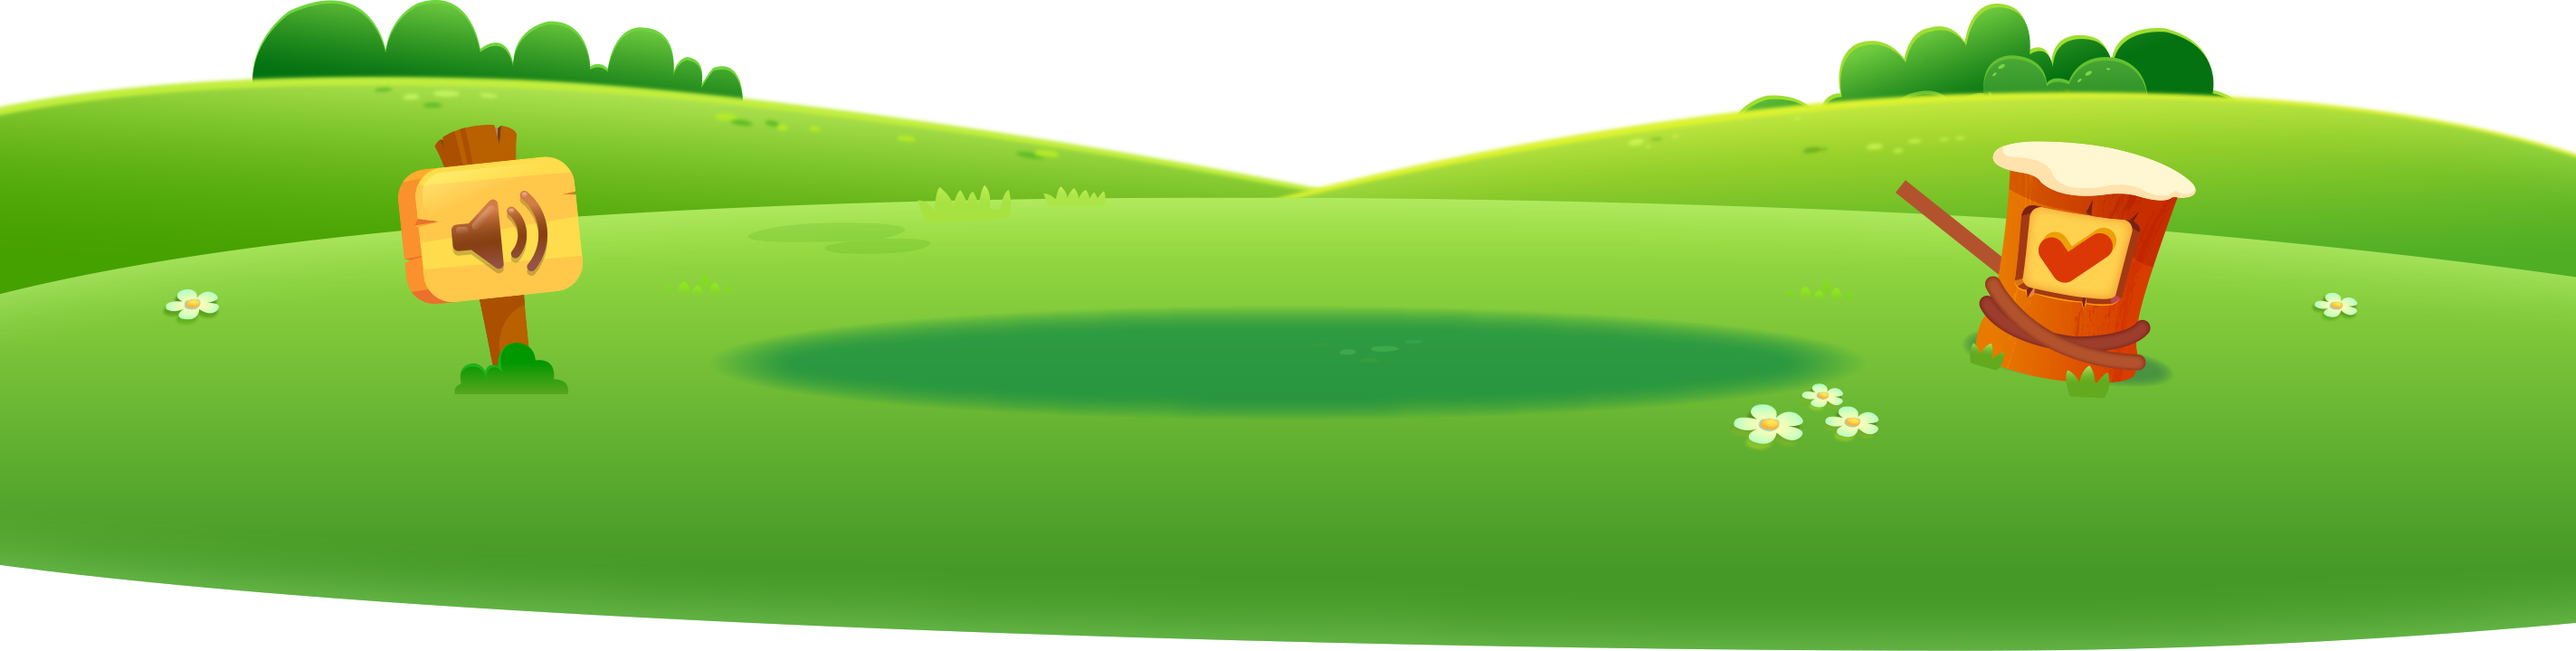
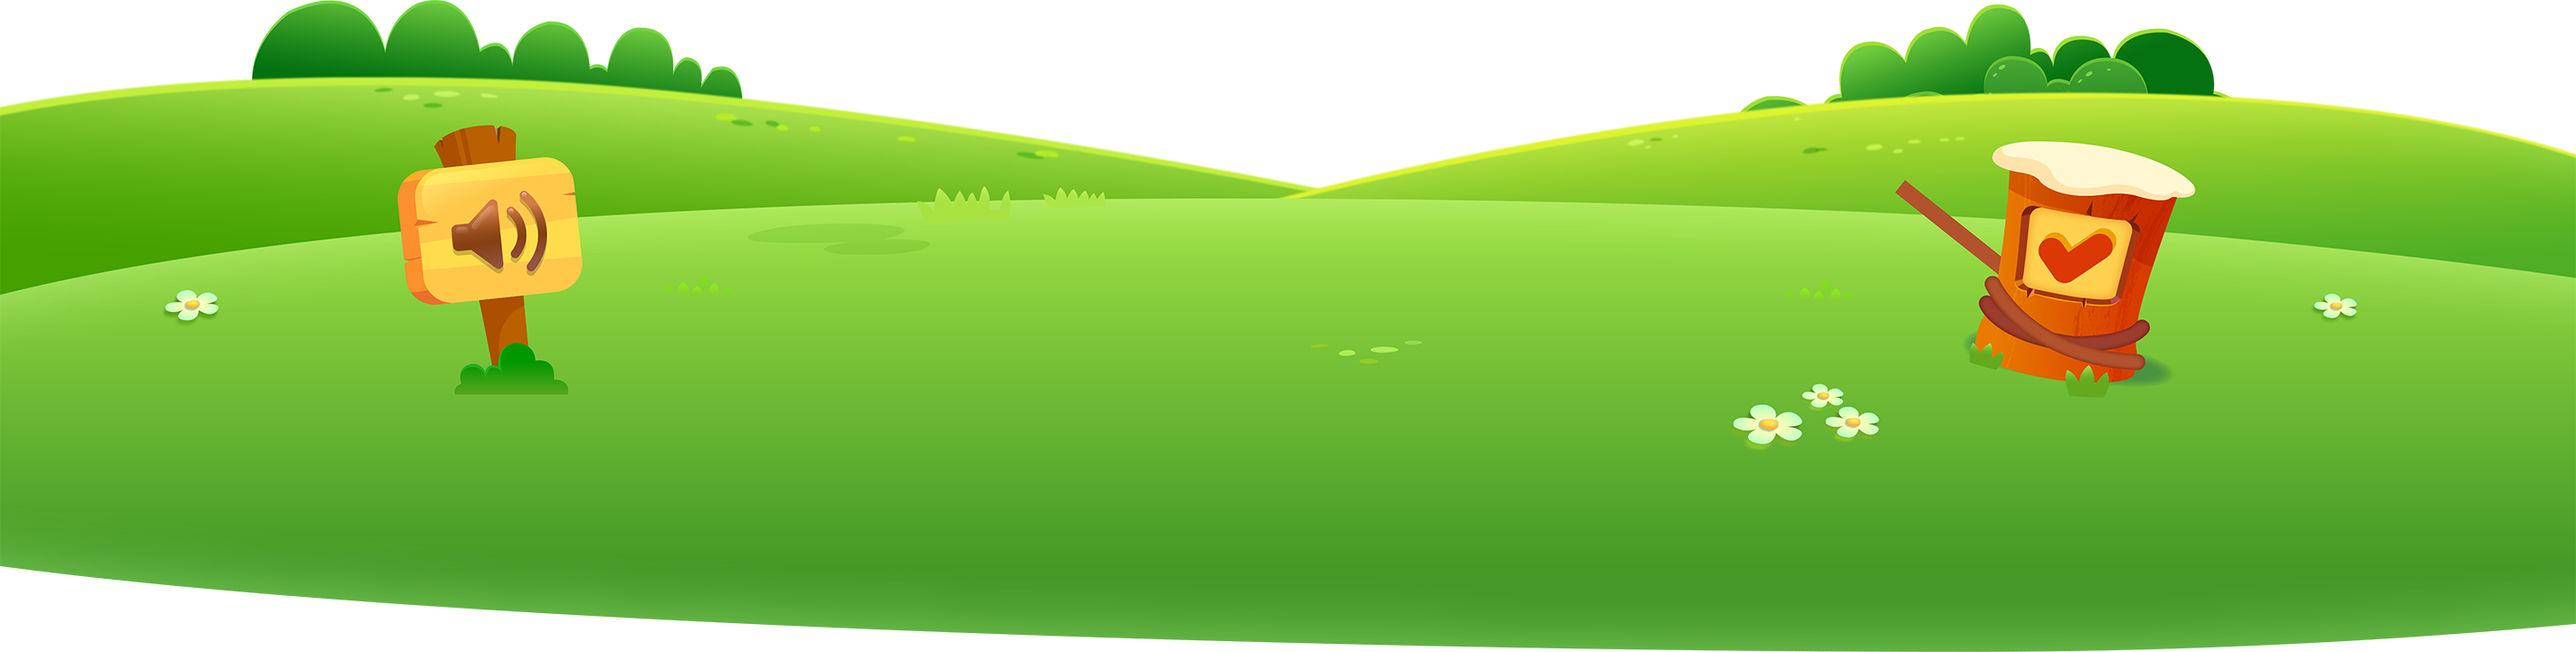
LetterTeams 게임 수정

diff --git a/src/componens/game/letter-teams/WordPicker.tsx b/src/componens/game/letter-teams/WordPicker.tsx
@@ -4,6 +4,7 @@ import { Container as PIXIContainer, Graphics as PIXIGraphics, Text as PIXIText,
 import { gsap, Cubic } from 'gsap';
 import useAssets from '../../../hooks/useAssets';
 import { makeRandom } from '../../../utils';
+import PIXITimeout from '../../../utils/PIXITimeout';
 
 
 export interface Props extends _ReactPixi.IContainer {
@@ -32,10 +33,11 @@ const WordPicker = forwardRef<Refs, Props>(({words, ...props}, ref) => {
    const [isSilient, setIsSilient] = useState<boolean>(false);
    const startPointerY = useRef<number>(0);
    const startPosY = useRef<number>(0);
-   const isDrag = useRef<boolean>(false);
+   const isDrag = useRef<number>(-1);
    const pickNum = useRef<number>(0);
    const [isTransition, setIsTransition] = useState<boolean>(false);
    const pickData = useRef<{word: string, correct: boolean}[]>([]);
+   const timer = useRef<any>();
   
 
    const makePicker = useCallback(() => {
@@ -110,11 +112,11 @@ const WordPicker = forwardRef<Refs, Props>(({words, ...props}, ref) => {
    const onDragStart = useCallback(( e: any ) => {
       startPointerY.current = e.data.global.y;
       startPosY.current = pickerCon.current!.position.y;
-      isDrag.current = true;
+      isDrag.current = e.data.pointerId;
    }, []);
 
    const onDragMove = useCallback(( e: any ) => {
-      if(isDrag.current) {
+      if(isDrag.current === e.data.pointerId) {
          const targetY: number = e.data.global.y - startPointerY.current;
          let scale = 1 - window.scale;
          if(scale < 0.3) scale = 0.3;
@@ -138,7 +140,7 @@ const WordPicker = forwardRef<Refs, Props>(({words, ...props}, ref) => {
 
 
    const onDragEnd = useCallback(( e: any ) => {
-      setTimeout(() => isDrag.current = false, 100);
+      timer.current = PIXITimeout.start(() => isDrag.current = -1, 100);
       const targetY = -PICKER_HEIGHT * pickNum.current;
       if(pickNum.current === 0 && pickerCon.current!.position.y < -(PICKER_HEIGHT/2)) {
          pickerCon.current!.position.y += PICKER_HEIGHT * words.length;
@@ -195,6 +197,9 @@ const WordPicker = forwardRef<Refs, Props>(({words, ...props}, ref) => {
       container.current!.addChild(mask);
       pickerCon.current!.mask = mask;
       makePicker();
+      return () => {
+         PIXITimeout.clear(timer.current);
+      }
    }, []);
 
    return (

diff --git a/src/componens/game/letter-teams/GameMain.tsx b/src/componens/game/letter-teams/GameMain.tsx
@@ -45,6 +45,7 @@ const GameMain: FC = () => {
    const app = useApp();
    const container = useRef<PixiRef<typeof Container>>(null);
    const ground = useRef<PixiRef<typeof Sprite>>(null);
+   const shadow = useRef<PixiRef<typeof Sprite>>(null);
    const sky = useRef<PixiRef<typeof Sprite>>(null);
    const cloudCon = useRef<PixiRef<typeof Sprite>>(null);
    const enterBtn = useRef<PixiRef<typeof Sprite>>(null);
@@ -151,6 +152,7 @@ const GameMain: FC = () => {
       gsap.to(ground.current, 0.6, {pixi: {y: 1060}, ease: Cubic.easeInOut});
       gsap.to(sky.current, 1, {pixi: {y: 520}, ease: Linear.easeNone});
       gsap.to(cloudCon.current, 1.3, {pixi: {y: 1750}, ease: Linear.easeNone});
+      gsap.to(shadow.current, 0.5, {pixi: {scale: 0.2, alpha: 0}, ease: Cubic.easeInOut});
       if(isBonus) {
          timer.current[2] = PIXITimeout.start(() => {
             setShowBonusText(true);
@@ -178,6 +180,7 @@ const GameMain: FC = () => {
          gsap.to(ground.current, 0.7, {delay: 0.3, pixi: {y: 520}, ease: Cubic.easeInOut});
          gsap.to(sky.current, 0.5, {delay: 0.3, pixi: {y: 0}, ease: Linear.easeNone});
          gsap.to(cloudCon.current, 0.5, {delay: 0.3, pixi: {y: 1280}, ease: Linear.easeNone});
+         gsap.set(shadow.current, {pixi: {scale: 1, alpha: 1}});
          quizTargets.current!.transition();
          if(isBonus) {
             dispatch({type: GameActions.ADD_BONUS_LENGTH});
@@ -390,12 +393,18 @@ const GameMain: FC = () => {
                texture={resources.mainCloud2.texture} />
          </Container>
 
-         <Sprite 
+         <Container
             ref={ground}
             name="ground"
             x={-400}
-            y={ground.current ? ground.current.position.y : 520}
-            texture={resources.mainGround.texture} />
+            y={ground.current ? ground.current.position.y : 520}>
+            <Sprite texture={resources.mainGround.texture} />
+            <Sprite 
+               ref={shadow}
+               anchor={0.5}
+               position={[1427, 387]}
+               texture={resources.mainShadow.texture} />
+         </Container>
 
          <Container 
             name="quizContainer"

diff --git a/src/assets/LetterTeamsGameAssets.ts b/src/assets/LetterTeamsGameAssets.ts
@@ -67,6 +67,7 @@ export default ( langCode: string, low: number ) => {
       { name: 'mainBonusBg', url: `${mainImgPath}bonus_bg.png`},
       { name: 'mainBonusOn', url: `${mainImgPath}bonus_on.png`},
       { name: 'mainGround', url: `${mainImgPath}ground.png`},
+      { name: 'mainShadow', url: `${mainImgPath}shadow.png`},
       { name: 'mainSky', url: `${mainImgPath}sky.png`},
       { name: 'mainCloud1', url: `${mainImgPath}cloud1.png`},
       { name: 'mainCloud2', url: `${mainImgPath}cloud2.png`},
@@ -95,7 +96,6 @@ export default ( langCode: string, low: number ) => {
       { name: 'mainRibon3', url: `${mainImgPath}ribon3.png`},
       { name: 'mainRibon4', url: `${mainImgPath}ribon4.png`},
       { name: 'mainRibon5', url: `${mainImgPath}ribon5.png`},
-
       { name: 'spritesheetBalloonLight1', url: `${spritesheetPath}balloon_light1.json` },
       { name: 'spritesheetBalloonLight2', url: `${spritesheetPath}balloon_light2.json` },
       { name: 'spritesheetFireWork1', url: `${spritesheetPath}firework1.json` },
